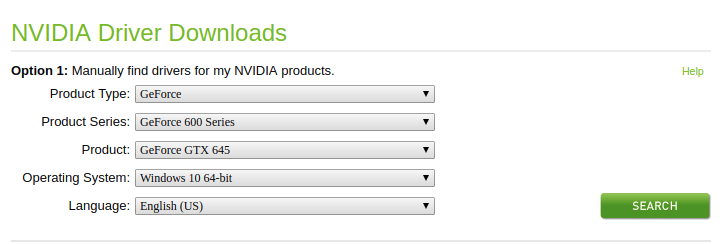
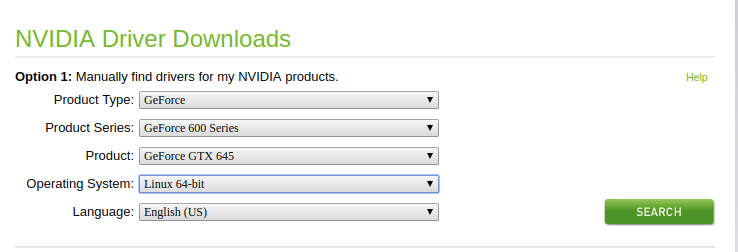
nividia

diff --git a/CUDA_installation_steps.md b/CUDA_installation_steps.md
@@ -8,6 +8,15 @@ Please Note: If you have a nvidia card only then proceed with this documents.
  ```
  Select the driver for your nvidia graphics card. In the image below, I am selecting GTX 645 card for Linux 
  operating system.
+ 
+ Go the download directory. I am assuming it is in the Downloads directory.
+ ```
+ cd ~/Downloads
+ chmod +x NVIDIA-Linux-x86_64-390.59.run
+ sudo ./NVIDIA-Linux-x86_64-390.59.run
+ 
+  
+ ```
  ![nvidia](nvidia_images/nvidia.png) 
  
 ### Step 2: Download CUDA ToolKit
@@ -17,7 +26,7 @@ Download CUDA from the following link
 https://developer.nvidia.com/cuda-80-ga2-download-archive
 ```
 Select the option shown in the image below
-![cuda1](nvidia_images/cuda1.png) 
+![cuda1](nvidia_images/cuda1.png)  
 
 ### Step 3: Install CUDA Toolkit
 ```
